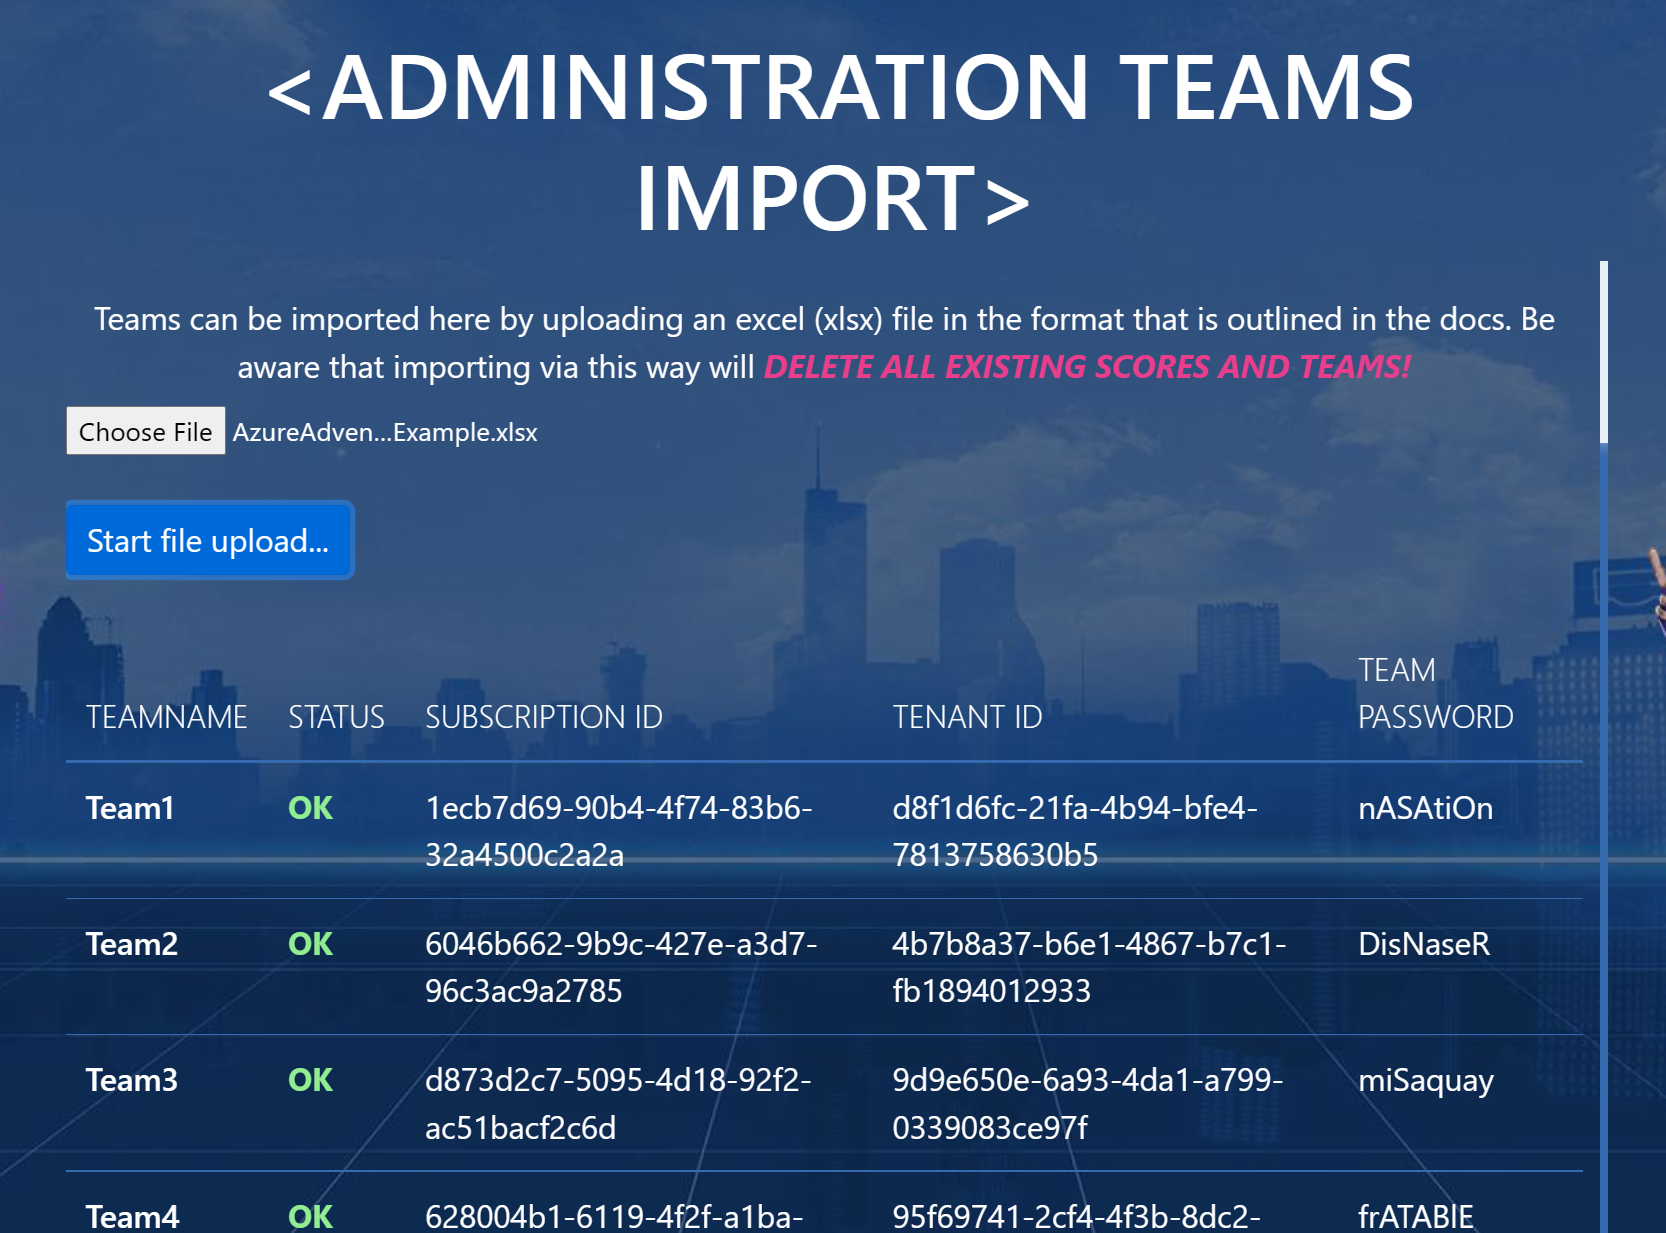
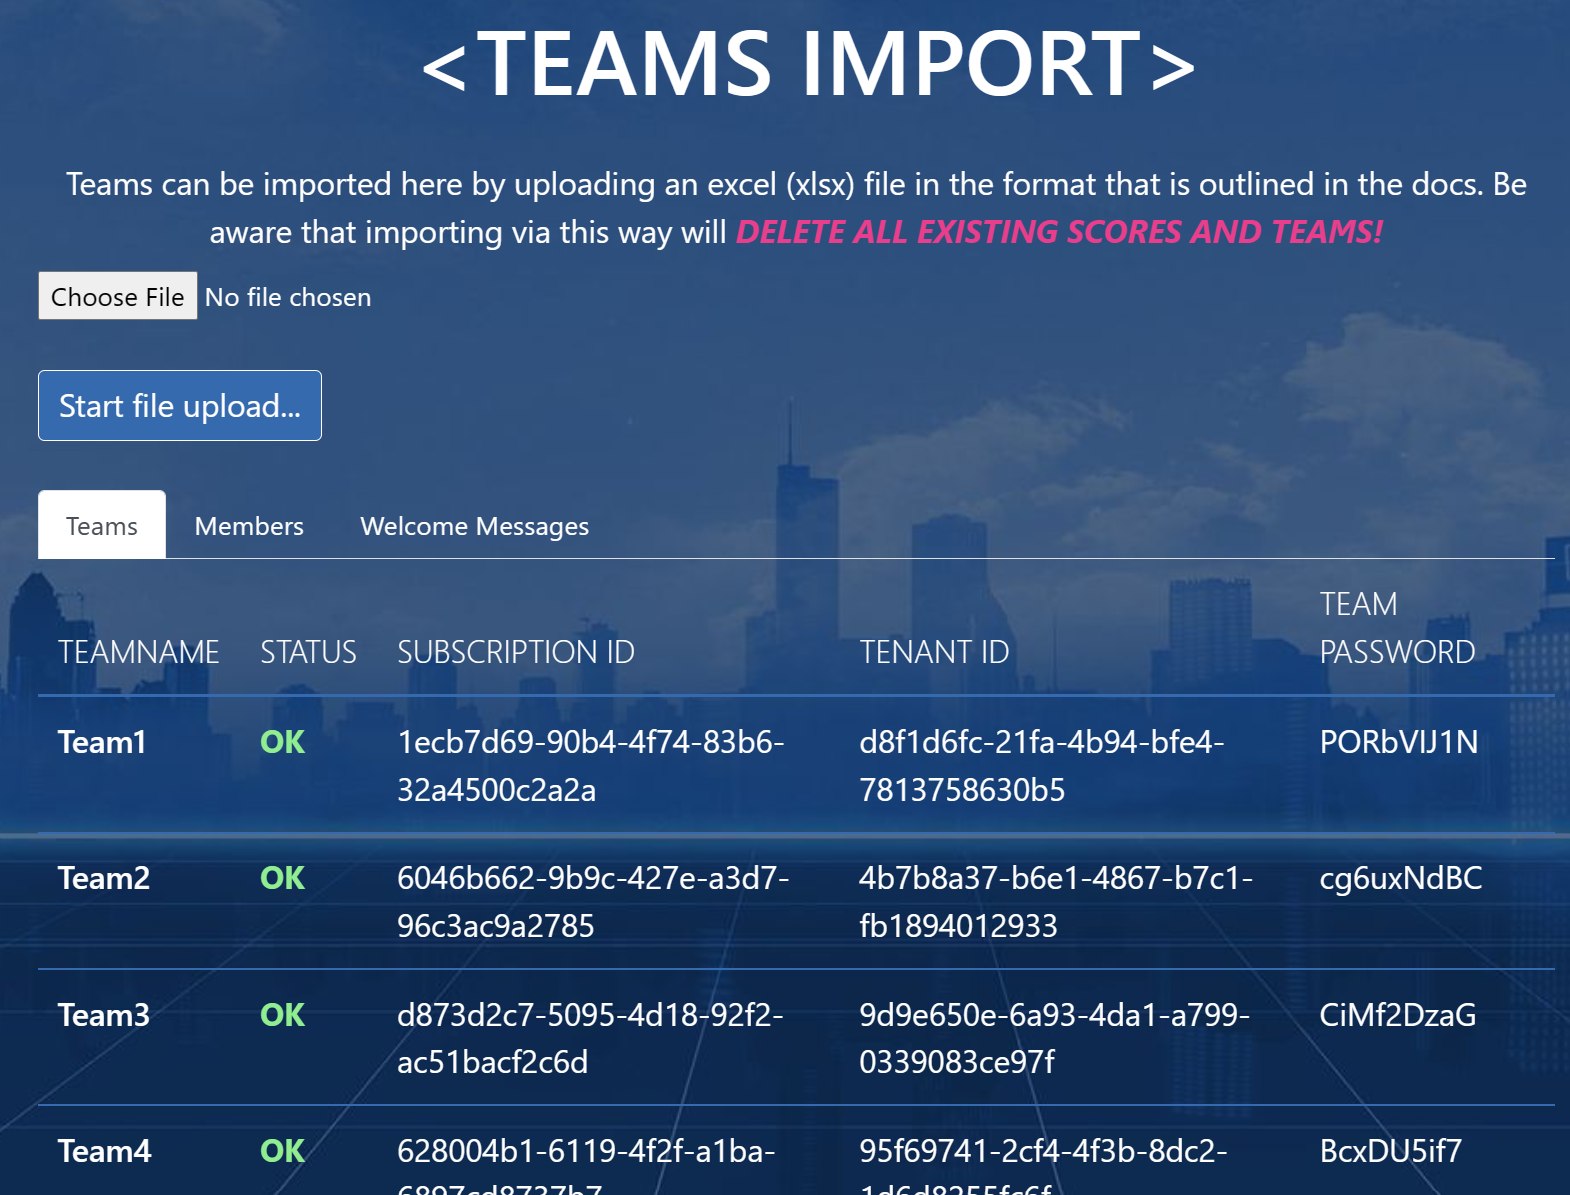
adding to the docs, correct page title

diff --git a/AdventureDayBackend/portal-frontend/src/views/AdministrationTeamsImport.vue b/AdventureDayBackend/portal-frontend/src/views/AdministrationTeamsImport.vue
@@ -1,6 +1,6 @@
 <template>
   <div class="team-accounts">
-    <h1>Administration Teams Import</h1>
+    <h1>Teams Import</h1>
     <div class="content overflow-auto">
       <p class="text">Teams can be imported here by uploading an excel (xlsx) file in the format that is outlined in the docs. Be aware that importing via this way will <b><em>DELETE ALL EXISTING SCORES AND TEAMS!</em></b></p>
       <p><input

diff --git a/AdventureDayBackend/team-import/ReadMe.md b/AdventureDayBackend/team-import/ReadMe.md
@@ -9,10 +9,22 @@
 
 > **Warning**: Team imports via Excel can be performed multiple times, but **all existing teams, including scores and team members** are deleted during the process. Thus, the import should ***NEVER*** be performed once an event has started!
 
-0. Log in as admin to the portal and navigate to the *AdministrationTeamsImport* page.
+1. Log in as admin to the portal and navigate to the *Teams Import* page.
 1. Click **Choose file** and select your *AzureAdventureDay_AzurePreparation_XYZ.xlsx* file.
-2. Click **Start file upload...** and wait for the result. In case of errors that will prevent the upload as a whole, these will be displayed immediately.
+1. Click **Start file upload...** and wait for the result. In case of errors that will prevent the upload as a whole, these will be displayed immediately.
 
    Otherwise, the result should look similar to this:
 
-   ![AdministrationTeamsImport page](./media/team-import-page.png)
+   ![Teams Import page](./media/team-import-page.png)
+
+1. Click the **Teams** and **Members** tabs to review the import results.
+
+## Generate Team Welcome Messages
+
+The teams receive the logon credentials for the game portal through a welcome message in their respective channels in Microsoft Teams. The lead coaches are responsible for posting those messages into the channel. For convenience, lead coaches can let these messages be auto-generated with the correct credentials right after the teams were imported (or at any later point in time).
+
+1. In the **Teams Import** page, click the **Welcome Messages** tab.
+1. For a single team, click the respective **Copy** button, and the message will be copied to the clipboard, so that it can be directly pasted into a Microsoft Teams channel.
+
+   ![Welcome Messages](./media/team-import-messages.png)
+1. In case that somebody else (with no access to the administration pages) will be posting the message, click **Copy all** to have all messages at once be copied to the clipboard. With this, the messages can easily be sent via Email to the people managing the Microsoft Teams channe.
